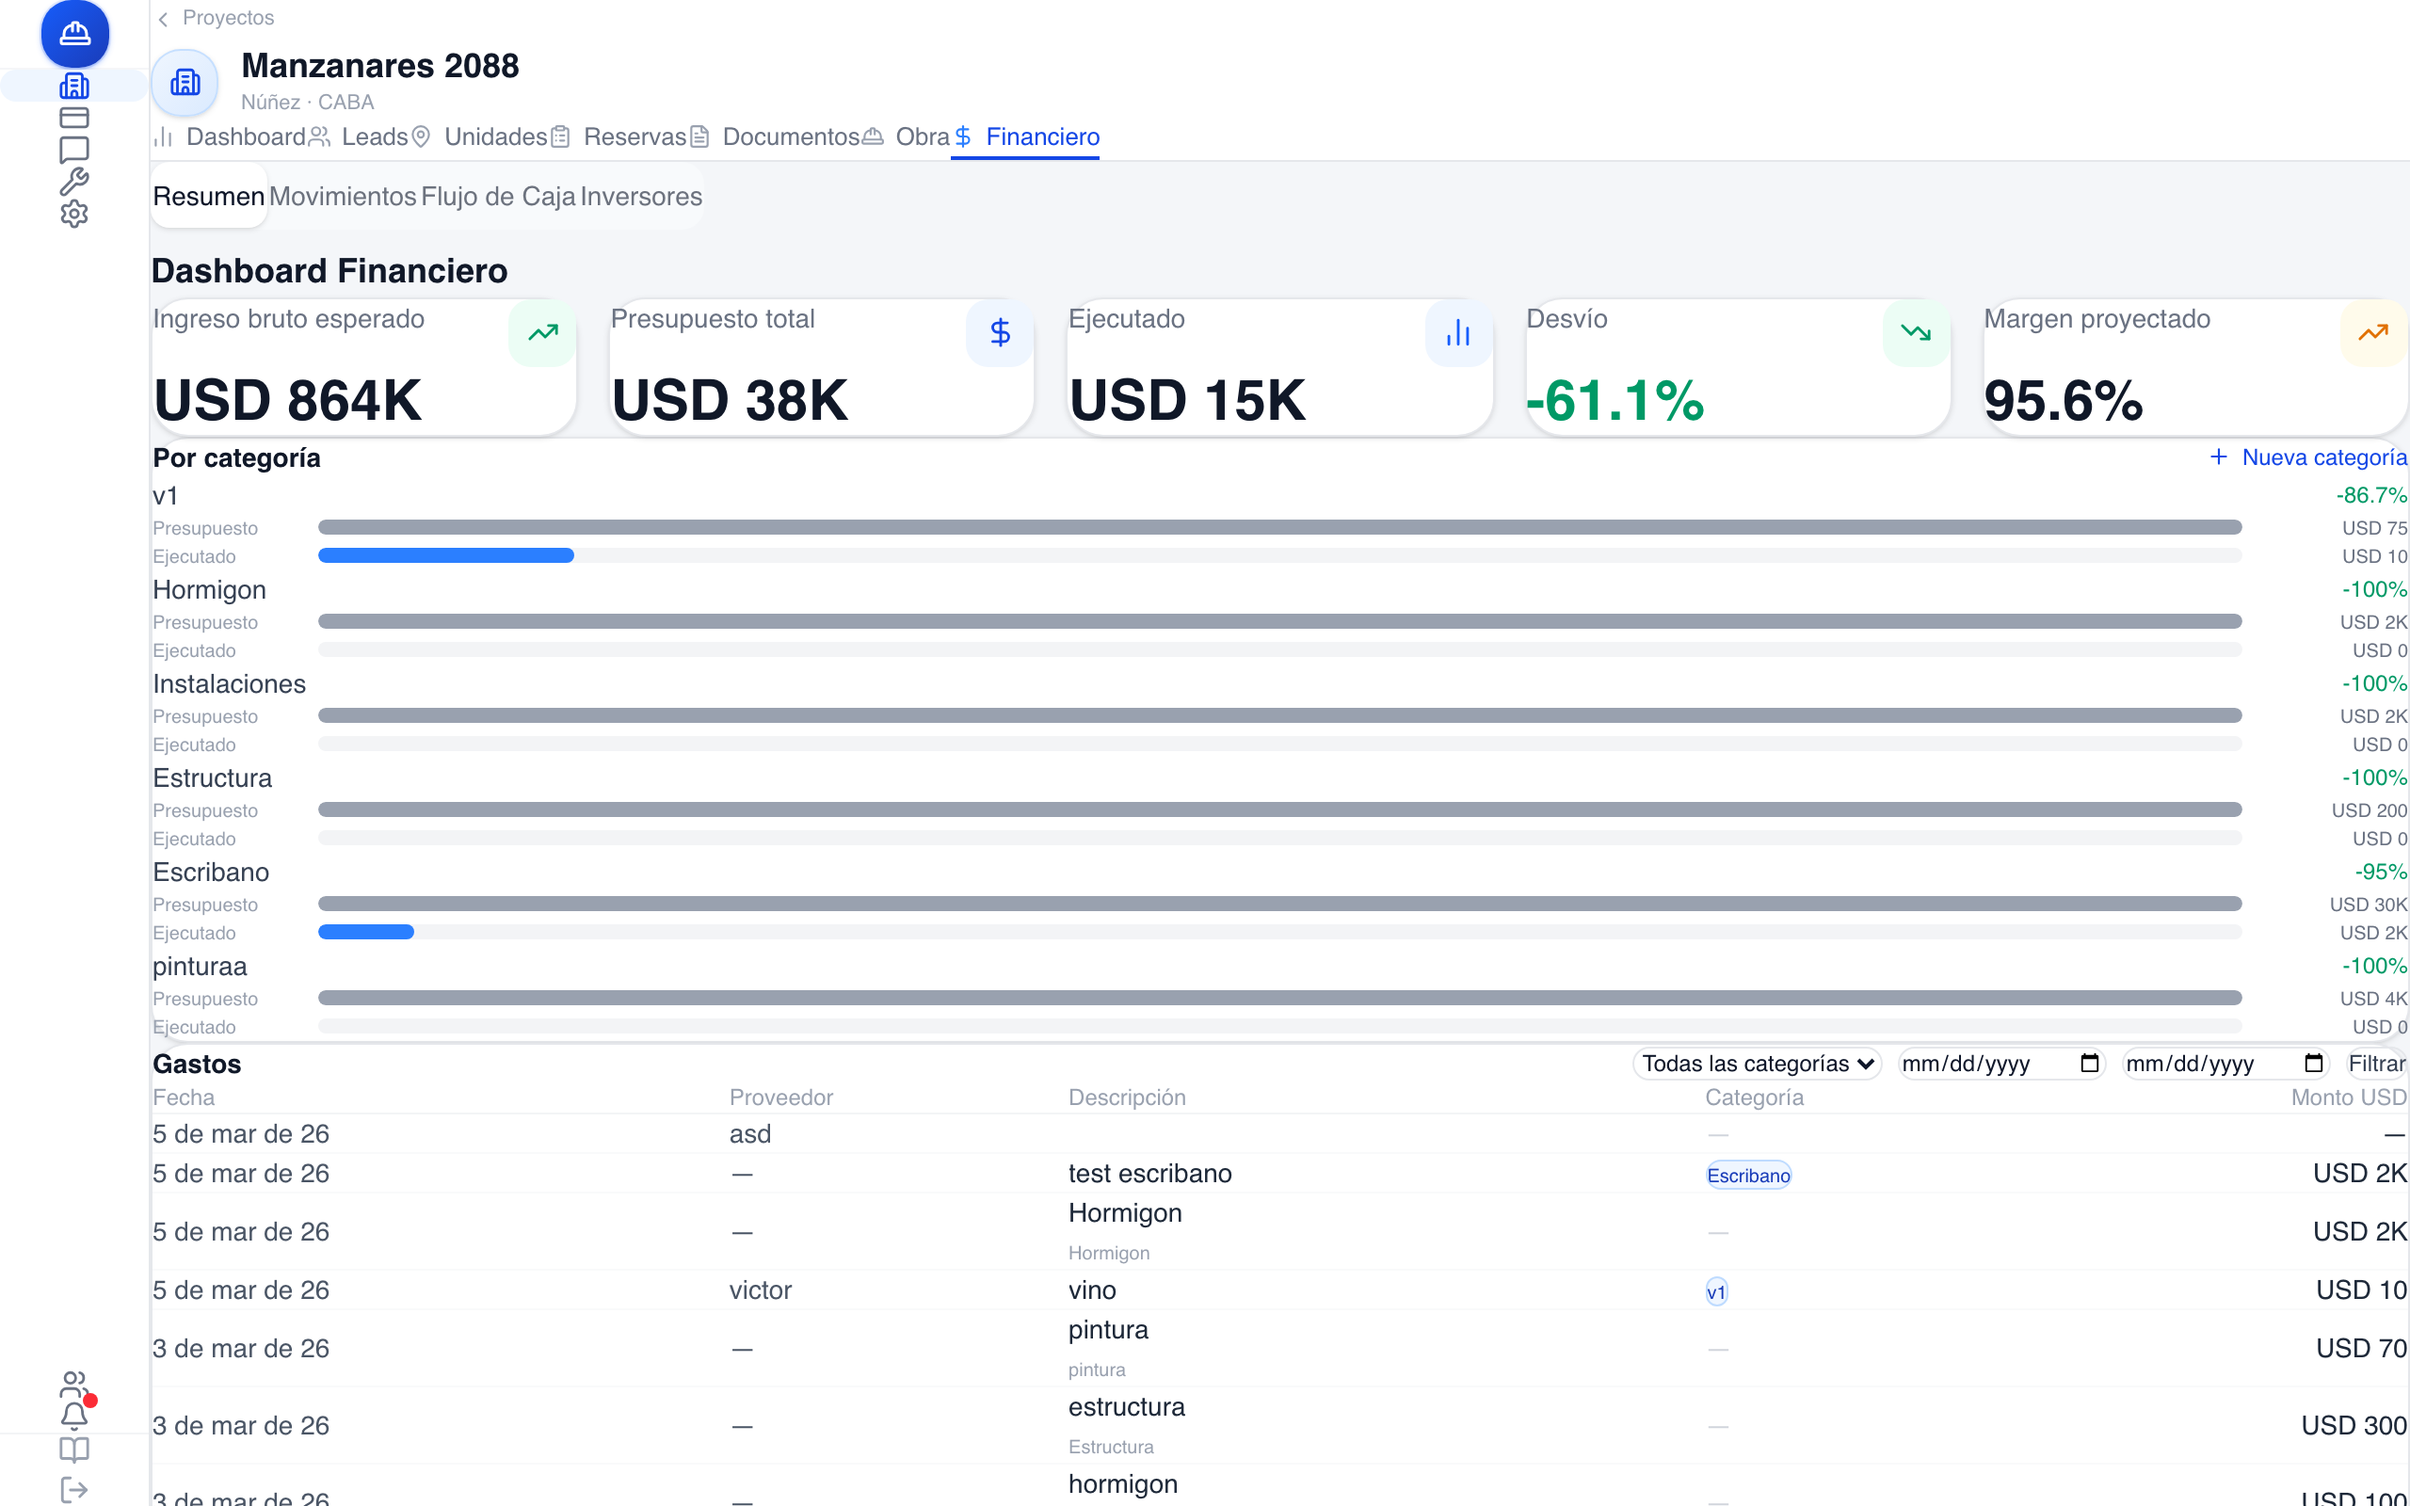
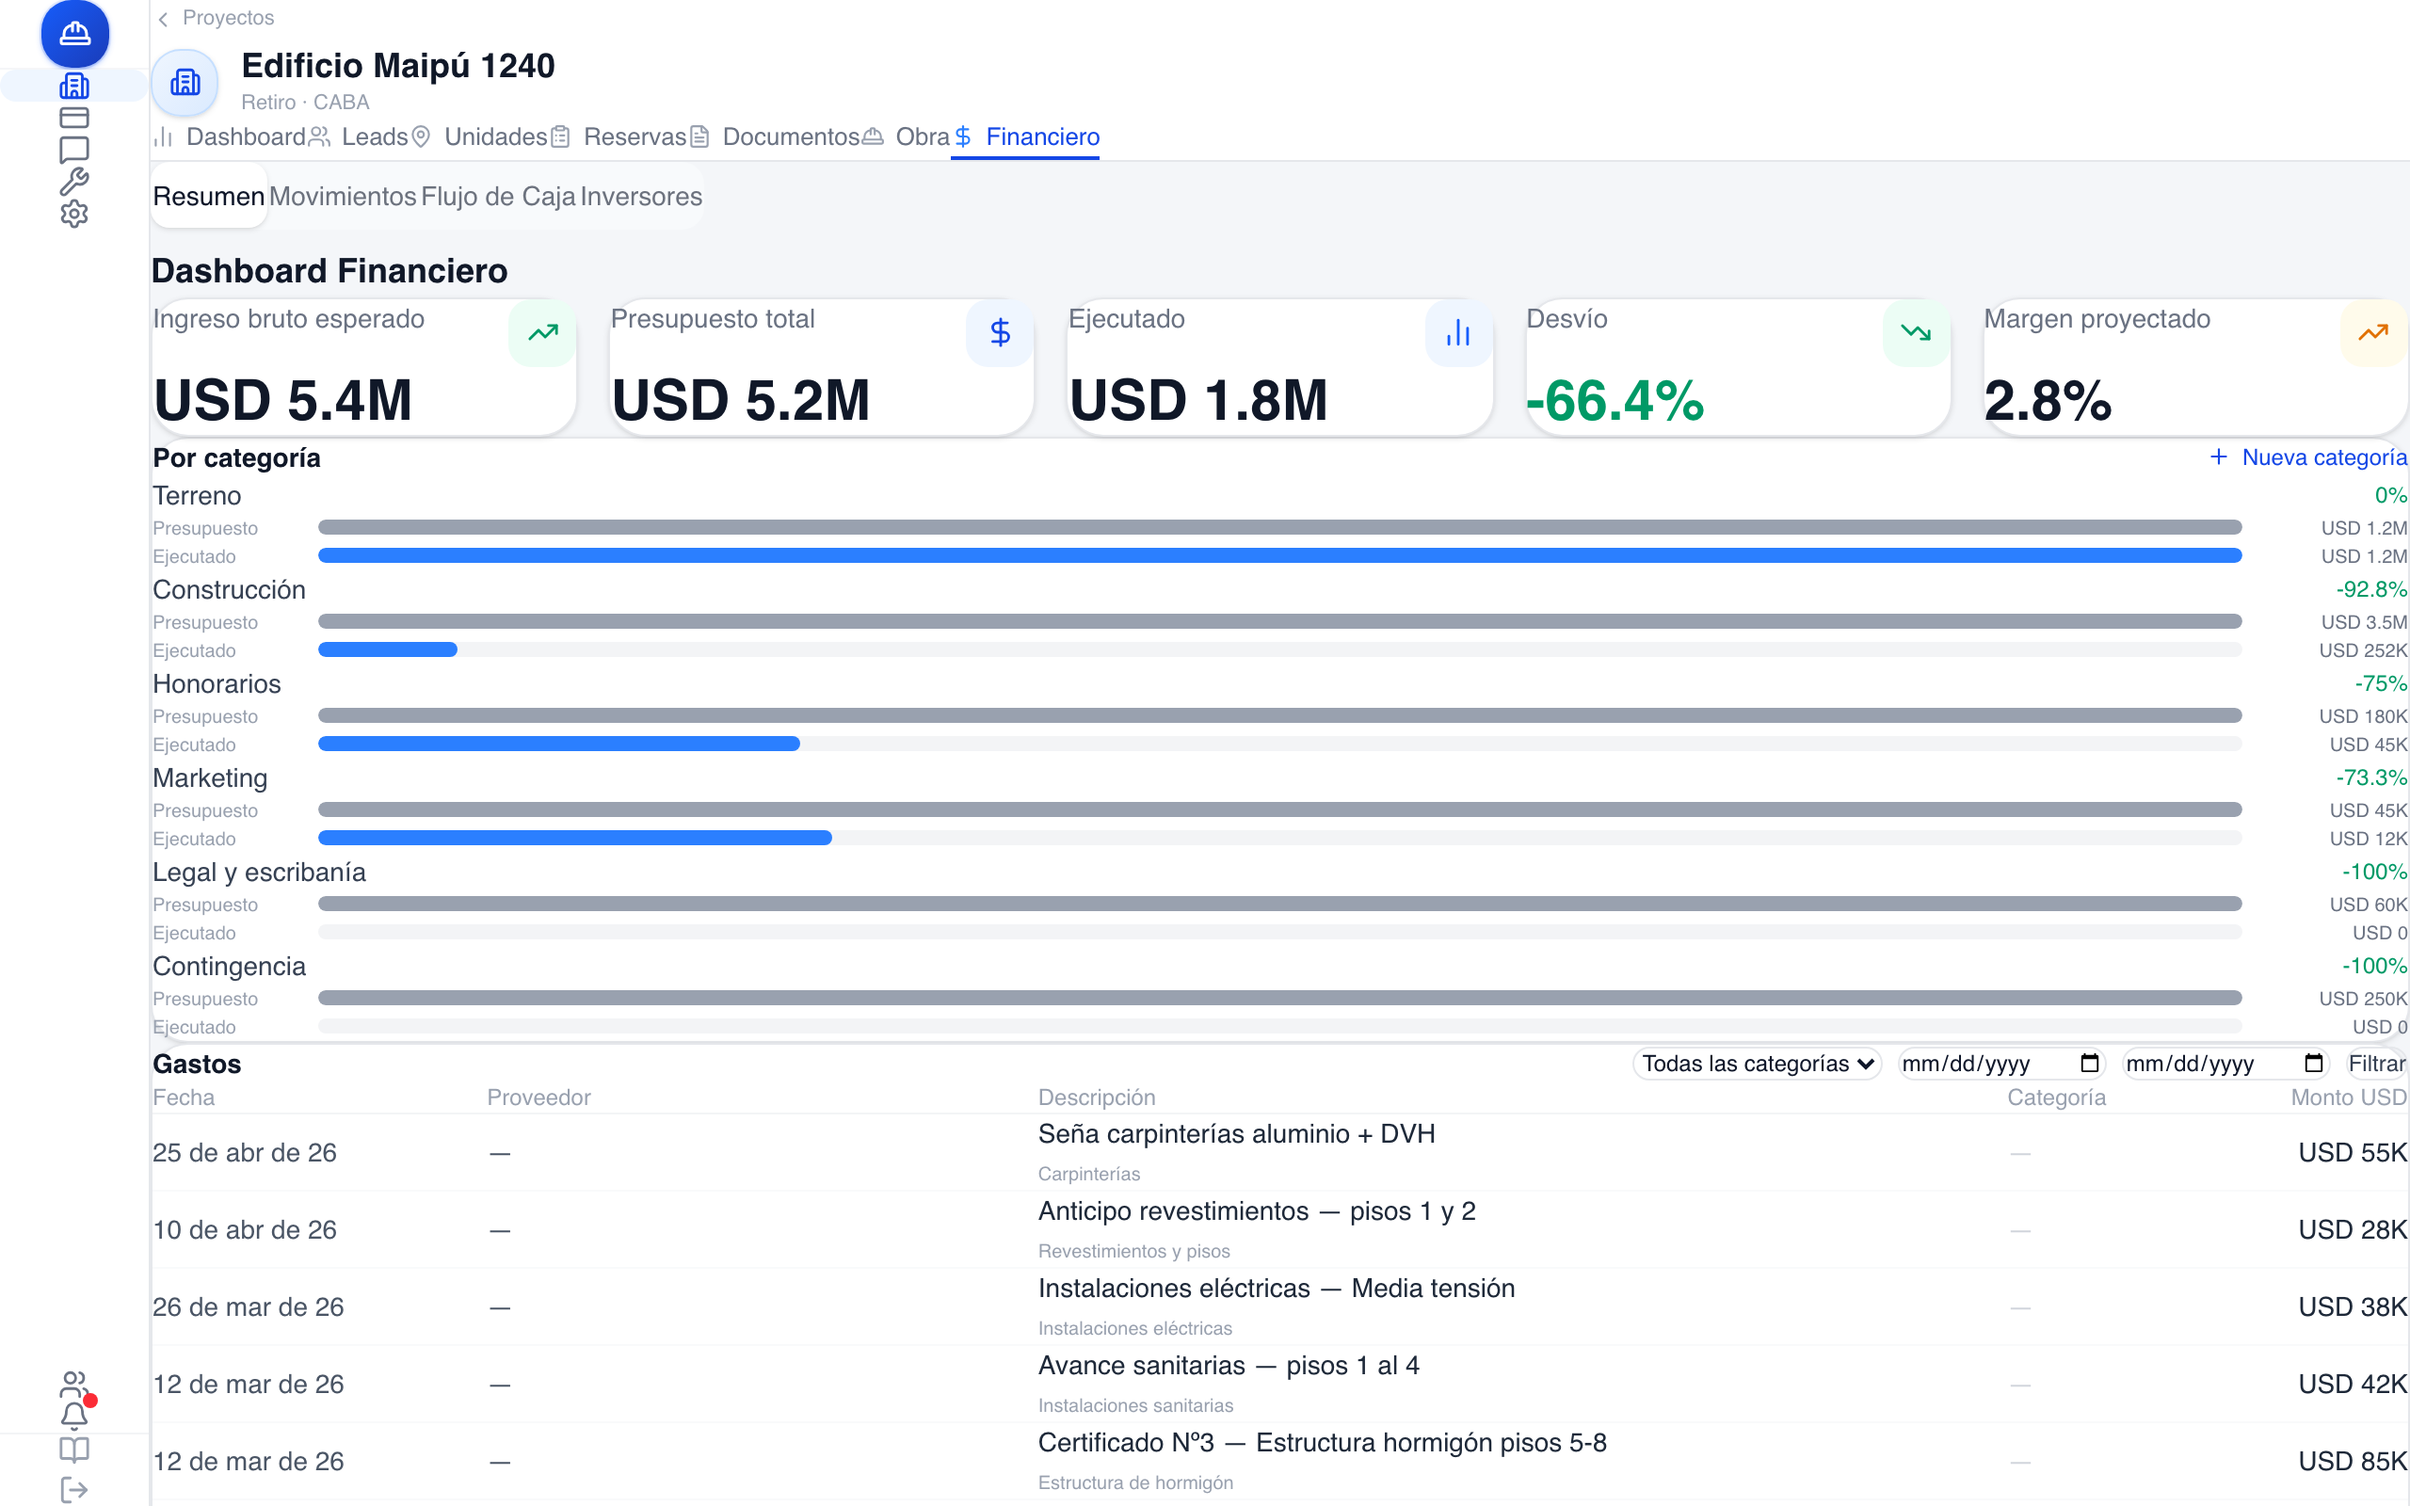
chore: update guia screenshots to Edificio Maipú 1240
Retakes all 13 guia screenshots using the Edificio Maipú 1240 project.
Updates screenshot script to use token injection via addInitScript and
correct frontend URL.

diff --git a/scripts/take-guia-screenshots.ts b/scripts/take-guia-screenshots.ts
@@ -4,8 +4,18 @@
  * Takes screenshots of each production page and saves them to frontend/public/guia/.
  *
  * Usage:
- *   REALIA_EMAIL=your@email.com REALIA_PASSWORD=yourpass REALIA_PROJECT_ID=<uuid> \
+ *   REALIA_TOKEN=<jwt> REALIA_PROJECT_ID=<uuid> \
  *     npx ts-node --esm scripts/take-guia-screenshots.ts
+ *
+ * Get a token via Python:
+ *   python3 -c "
+ *   import urllib.request, json, os
+ *   data = json.dumps({'username': 'your@email.com', 'password': 'yourpass'}).encode()
+ *   req = urllib.request.Request('https://realia-production-318c.up.railway.app/admin/auth/login',
+ *     data=data, headers={'Content-Type':'application/json'}, method='POST')
+ *   with urllib.request.urlopen(req) as r:
+ *     print(json.loads(r.read())['access_token'])
+ *   "
  *
  * Requirements:
  *   npm install --save-dev playwright
@@ -22,17 +32,11 @@ const __dirname = path.dirname(fileURLToPath(import.meta.url));
 const BASE_URL = 'https://realia.up.railway.app';
 const OUT_DIR = path.resolve(__dirname, '../frontend/public/guia');
 
-const EMAIL = process.env.REALIA_EMAIL;
-const PASSWORD = process.env.REALIA_PASSWORD;
+const TOKEN = process.env.REALIA_TOKEN;
 const PROJECT_ID = process.env.REALIA_PROJECT_ID;
-const PREAUTH_TOKEN = process.env.REALIA_TOKEN; // Optional: skip login form entirely
 
-if (!PROJECT_ID) {
-  console.error('Missing required env var: REALIA_PROJECT_ID');
-  process.exit(1);
-}
-if (!PREAUTH_TOKEN && (!EMAIL || !PASSWORD)) {
-  console.error('Missing required env vars: REALIA_TOKEN or (REALIA_EMAIL + REALIA_PASSWORD)');
+if (!TOKEN || !PROJECT_ID) {
+  console.error('Missing required env vars: REALIA_TOKEN, REALIA_PROJECT_ID');
   process.exit(1);
 }
 
@@ -41,10 +45,11 @@ interface Shot {
   url: string;
   waitFor?: string;
   waitMs?: number;
+  networkIdle?: boolean;
 }
 
 const SHOTS: Shot[] = [
-  { name: 'login',         url: '/',                                    waitFor: 'form',   waitMs: 500 },
+  { name: 'login',         url: '/',                                    waitFor: 'form',   waitMs: 500,  networkIdle: false },
   { name: 'proyectos',     url: '/proyectos',                           waitMs: 1500 },
   { name: 'dashboard',     url: `/proyectos/${PROJECT_ID}`,             waitMs: 1500 },
   { name: 'leads',         url: `/proyectos/${PROJECT_ID}/leads`,       waitMs: 1500 },
@@ -53,7 +58,7 @@ const SHOTS: Shot[] = [
   { name: 'obra',          url: `/proyectos/${PROJECT_ID}/obra`,        waitMs: 1500 },
   { name: 'financiero',    url: `/proyectos/${PROJECT_ID}/financiero`,  waitMs: 1500 },
   { name: 'inversores',    url: `/proyectos/${PROJECT_ID}/inversores`,  waitMs: 1500 },
-  { name: 'inbox',         url: '/inbox',                               waitMs: 3000, waitUntil: 'load' },
+  { name: 'inbox',         url: '/inbox',                               waitMs: 2000,  networkIdle: false },
   { name: 'tools',         url: '/tools',                               waitMs: 1000 },
   { name: 'usuarios',      url: '/admin/usuarios',                      waitMs: 1000 },
   { name: 'configuracion', url: '/configuracion',                       waitMs: 1000 },
@@ -63,74 +68,45 @@ async function run() {
   fs.mkdirSync(OUT_DIR, { recursive: true });
   console.log(`Output directory: ${OUT_DIR}`);
 
+  // ── Login screen (unauthenticated) ───────────────────────────────────
+  {
+    const outPath = path.join(OUT_DIR, 'login.png');
+    const browser0 = await chromium.launch({ headless: true });
+    const ctx0 = await browser0.newContext({ viewport: { width: 1280, height: 800 }, deviceScaleFactor: 2 });
+    const page0 = await ctx0.newPage();
+    await page0.goto(`${BASE_URL}/`, { waitUntil: 'networkidle' });
+    await page0.waitForSelector('form', { timeout: 8000 }).catch(() => {});
+    await page0.waitForTimeout(500);
+    await page0.screenshot({ path: outPath, fullPage: false });
+    console.log('  ✓  login');
+    await browser0.close();
+  }
+
+  // ── Authenticated screenshots ─────────────────────────────────────────
   const browser = await chromium.launch({ headless: true });
   const context = await browser.newContext({
     viewport: { width: 1280, height: 800 },
-    deviceScaleFactor: 2, // Retina quality
+    deviceScaleFactor: 2,
   });
-  const page = await context.newPage();
 
-  // ── Capture login screen first (before auth) ─────────────────────────
-  console.log('\nCapturing login screen...');
-  await page.goto(`${BASE_URL}/`, { waitUntil: 'networkidle' });
-  await page.waitForSelector('#username', { timeout: 15000 });
-  {
-    const outPath = path.join(OUT_DIR, 'login.png');
-    if (!fs.existsSync(outPath)) {
-      await page.screenshot({ path: outPath, fullPage: false });
-      console.log('  ✓  login');
-    } else {
-      console.log('  –  login (skipped, exists)');
-    }
-  }
-
-  // ── Auth: use pre-fetched token or API login ──────────────────────────
-  let token: string;
-  if (PREAUTH_TOKEN) {
-    token = PREAUTH_TOKEN;
-    console.log(`\nUsing pre-fetched token (${token.length} chars)`);
-  } else {
-    console.log('\nAuthenticating via API...');
-    const API_URL = 'https://realia-production-318c.up.railway.app';
-    const loginResp = await fetch(`${API_URL}/admin/auth/login`, {
-      method: 'POST',
-      headers: { 'Content-Type': 'application/json' },
-      body: JSON.stringify({ username: EMAIL, password: PASSWORD }),
-    });
-    if (!loginResp.ok) {
-      throw new Error(`Login API failed: ${loginResp.status} ${await loginResp.text()}`);
-    }
-    const loginData = await loginResp.json() as { token: string };
-    token = loginData.token;
-    console.log(`  ✓  got JWT token (${token.length} chars)`);
-  }
-
-  // Inject token via addInitScript so sessionStorage is set BEFORE React hydrates
+  // Inject token into sessionStorage BEFORE any React hydration
   await context.addInitScript((t) => {
     sessionStorage.setItem('realia_token', t);
-  }, token);
+  }, TOKEN!);
 
-  // Navigate and wait for sidebar (authenticated render)
-  await page.goto(`${BASE_URL}/proyectos`, { waitUntil: 'networkidle' });
-  await page.waitForTimeout(3000);
-  await page.screenshot({ path: path.join(OUT_DIR, '_debug_auth.png') });
-  console.log(`  debug url after token inject: ${page.url()}`);
+  const page = await context.newPage();
+
+  // Warm up: navigate to /proyectos to confirm auth works
+  console.log('\nVerifying auth...');
+  await page.goto(`${BASE_URL}/proyectos`, { waitUntil: 'networkidle', timeout: 20000 });
   await page.waitForSelector('aside', { timeout: 15000 });
-  await page.waitForTimeout(1000);
-  console.log(`  ✓  logged in → ${page.url()}`);
+  console.log('  ✓  authenticated');
 
-  // ── Screenshots ──────────────────────────────────────────────────────
   for (const shot of SHOTS.slice(1)) {
     const outPath = path.join(OUT_DIR, `${shot.name}.png`);
-    if (fs.existsSync(outPath)) {
-      console.log(`  –  ${shot.name} (skipped, exists)`);
-      continue;
-    }
     try {
-      const waitUntil = (shot as { waitUntil?: 'load' | 'networkidle' }).waitUntil ?? 'networkidle';
-      await page.goto(`${BASE_URL}${shot.url}`, { waitUntil, timeout: 20000 });
-      // Wait for sidebar (confirms authenticated render, not login redirect)
-      await page.waitForSelector('aside', { timeout: 10000 }).catch(() => {});
+      const waitUntil = shot.networkIdle === false ? 'load' : 'networkidle';
+      await page.goto(`${BASE_URL}${shot.url}`, { waitUntil, timeout: 25000 });
       if (shot.waitFor) {
         await page.waitForSelector(shot.waitFor, { timeout: 8000 }).catch(() => {});
       }
